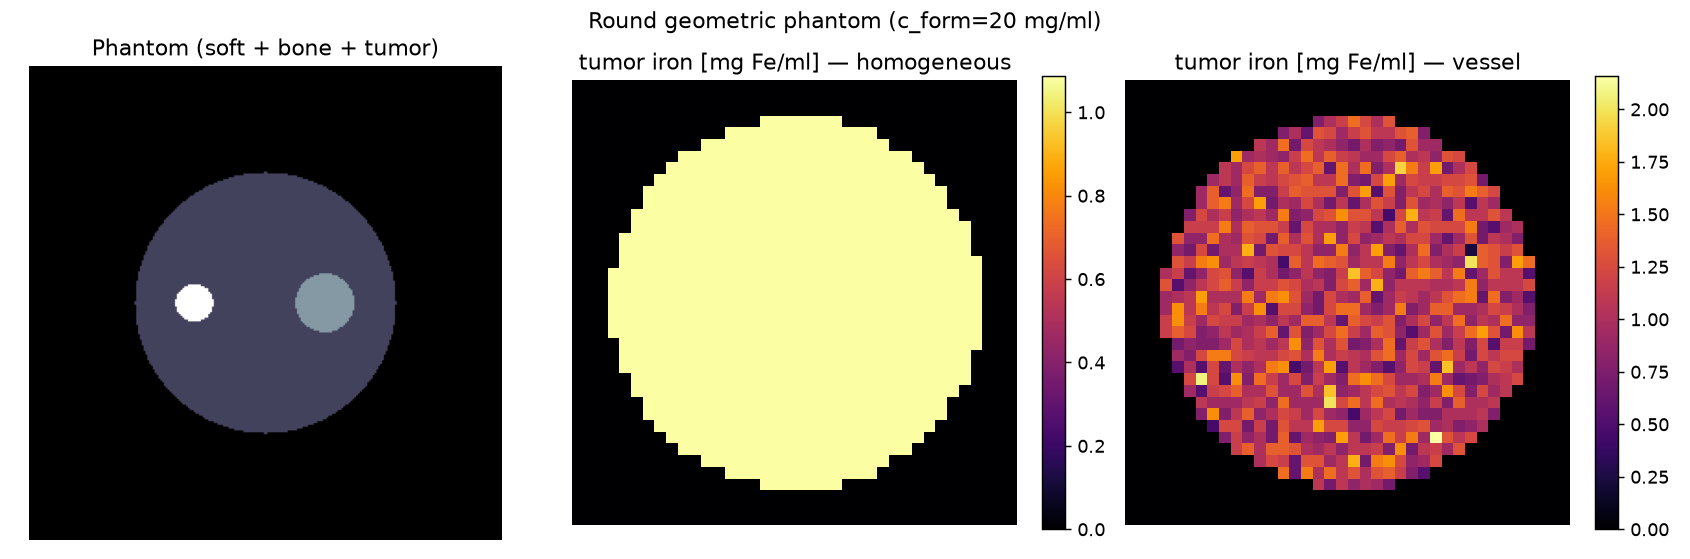
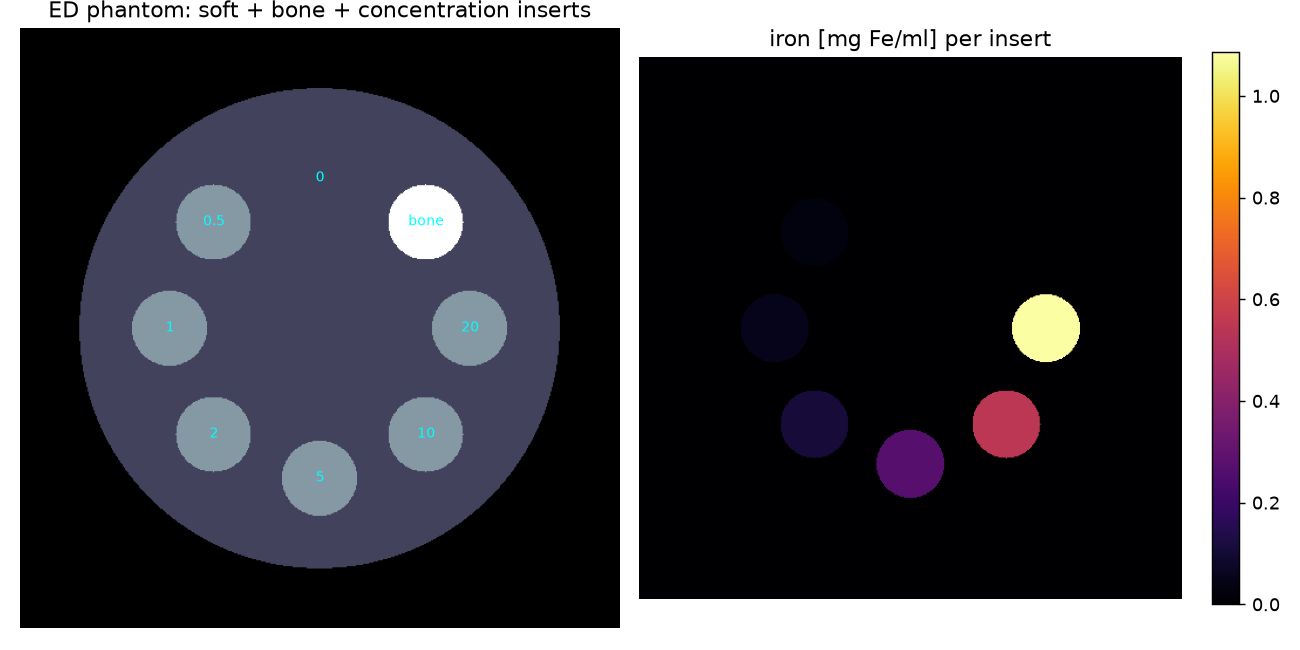
Rebuild phantom as ED-style circular concentration inserts
Per user review: replace the single off-center tumor with a CT-calibration-style
phantom -- soft cylinder with the 7 SPION concentration inserts (0-20) on a ring
at equal radius plus a bone insert, each a 2.5 cm (8 cm^3-equiv) disk. All
concentrations imaged in one scan at equal radius so cupping is common-mode and
inserts are directly comparable. Homogeneous + vessel models per insert.

diff --git a/src/phantom.py b/src/phantom.py
@@ -1,146 +1,127 @@
-"""M2 — round geometric rabbit-scale phantom.
+"""M2 (rev.) — ED-phantom-style module: concentration inserts on a circle.
 
-Analytic geometry (soft-tissue cylinder + cortical-bone rod + iron-loaded tumor
-sphere) plus a voxelizer that returns three component volumes so polychromatic
-projection (M4) can integrate each material's path length independently:
+Like a CT calibration (electron-density) phantom: a soft-tissue cylinder with the
+SPION concentration inserts arranged on a circle at EQUAL radius, plus a
+cortical-bone insert. All concentrations are imaged in one scan and sit at the
+same radial position, so beam-hardening cupping affects them equally and they are
+directly comparable. Each insert is a 2.5 cm disk (~8 cm^3-equivalent tumor).
 
-    mu(E; ray) = L_soft·mu_soft(E) + L_bone·mu_bone(E) + (∫c_Fe dl)·oxide(E)
+Returns 2D component maps (soft fraction, bone fraction, iron mg/ml) for fan-beam
+projection, and the insert table for ROI measurement.
 
-Two tumor distributions (SPEC §5.1/§5.9):
-  * 'homogeneous' — uniform iron through the sphere (Study A).
-  * 'vessel'      — iron confined to 150 µm vessels at 10% volume, mass conserved
-                    -> 10x local conc. Vessels are sub-resolution, so per-voxel
-                    effective conc has mean = c_Fe with binomial partial-volume
-                    variance (structural noise). (Study B)
+Tumor models (per insert):
+  'homogeneous' — uniform iron; 'vessel' — 150 um vessels @10% (mass conserved,
+  10x local conc, sub-resolution -> per-voxel binomial partial-volume variance).
 """
 from __future__ import annotations
-from dataclasses import dataclass
+from dataclasses import dataclass, field
 import numpy as np
 
 import conrad_backend
-from config import PHANTOM, tumor_iron_conc, VESSEL_DIAMETER_UM, VESSEL_VOLUME_FRACTION
+from config import (C_FORM_LEVELS, tumor_iron_conc,
+                    VESSEL_DIAMETER_UM, VESSEL_VOLUME_FRACTION)
 
-_RNG = np.random.default_rng(20260708)   # fixed seed for reproducibility
+_RNG = np.random.default_rng(20260708)
+
+BODY_RADIUS_MM = 80.0        # fits inside the 20 cm FOV
+INSERT_CIRCLE_MM = 50.0      # radius of the ring of inserts
+INSERT_RADIUS_MM = 12.5      # 2.5 cm dia ~ 8 cm^3-equivalent
+BONE_RADIUS_MM = 12.5
 
 
 @dataclass
-class ComponentVolumes:
-    """Per-voxel material composition (all arrays share the same grid)."""
-    soft: np.ndarray      # soft-tissue fraction in [0,1]
-    bone: np.ndarray      # cortical-bone fraction in [0,1]
-    iron_mgml: np.ndarray # iron concentration [mg Fe/ml] (tumor voxels only)
-    voxel_mm: float
-    origin_mm: tuple      # (x0,y0,z0) of voxel-index (0,0,0) center
+class EDPhantom:
+    soft: np.ndarray
+    bone: np.ndarray
+    iron: np.ndarray            # mg Fe/ml per pixel
+    voxel_cm: float
+    inserts: list = field(default_factory=list)   # dicts: name, center_mm, radius_mm, c_form, c_fe
 
 
-def _grid(dim, voxel_mm):
-    nx, ny, nz = dim
-    # centered coordinates [mm]
-    x = (np.arange(nx) - (nx - 1) / 2.0) * voxel_mm
-    y = (np.arange(ny) - (ny - 1) / 2.0) * voxel_mm
-    z = (np.arange(nz) - (nz - 1) / 2.0) * voxel_mm
-    return np.meshgrid(x, y, z, indexing="ij")
+def _disk(X, Y, cx, cy, r):
+    return (X - cx) ** 2 + (Y - cy) ** 2 <= r ** 2
 
 
-def build_components(c_form: float, model: str = "homogeneous",
-                     dim=(256, 256, 192), voxel_mm: float = 0.78) -> ComponentVolumes:
-    """Voxelize the phantom for one formulation concentration and tumor model."""
-    X, Y, Z = _grid(dim, voxel_mm)
-    ph = PHANTOM
+def build_ed_phantom(model="homogeneous", N=512, fov_mm=200.0) -> EDPhantom:
+    voxel_mm = fov_mm / N
+    ax = (np.arange(N) - (N - 1) / 2.0) * voxel_mm
+    X, Y = np.meshgrid(ax, ax, indexing="ij")   # X=axis0(rows), Y=axis1(cols)
 
-    # body cylinder (axis along z)
-    body_r = ph.body_diameter_mm / 2.0
-    in_body = (X**2 + Y**2 <= body_r**2) & (np.abs(Z) <= ph.body_height_mm / 2.0)
+    soft = _disk(X, Y, 0, 0, BODY_RADIUS_MM).astype(np.float32)
+    bone = np.zeros((N, N), np.float32)
+    iron = np.zeros((N, N), np.float32)
 
-    # cortical-bone rod (cylinder along z)
-    bx, by, _ = ph.bone_center_mm
-    in_bone = in_body & ((X - bx)**2 + (Y - by)**2 <= ph.bone_radius_mm**2)
+    inserts = []
+    n_conc = len(C_FORM_LEVELS)
+    n_slots = n_conc + 1                       # + bone
+    for k, c_form in enumerate(C_FORM_LEVELS):
+        theta = 2 * np.pi * k / n_slots + np.pi / 2   # start at top
+        cx = INSERT_CIRCLE_MM * np.cos(theta)
+        cy = INSERT_CIRCLE_MM * np.sin(theta)
+        mask = _disk(X, Y, cx, cy, INSERT_RADIUS_MM)
+        c_fe = tumor_iron_conc(c_form)
+        _fill_iron(iron, mask, c_fe, model, voxel_mm)
+        inserts.append(dict(name=f"c{c_form:g}", center_mm=(float(cx), float(cy)),
+                            radius_mm=INSERT_RADIUS_MM, c_form=float(c_form), c_fe=float(c_fe)))
 
-    # tumor sphere
-    tx, ty, tz = ph.tumor_center_mm
-    tr = ph.tumor_radius_mm
-    in_tumor = (X - tx)**2 + (Y - ty)**2 + (Z - tz)**2 <= tr**2
+    # bone insert in the last slot
+    theta = 2 * np.pi * n_conc / n_slots + np.pi / 2
+    bx, by = INSERT_CIRCLE_MM * np.cos(theta), INSERT_CIRCLE_MM * np.sin(theta)
+    bmask = _disk(X, Y, bx, by, BONE_RADIUS_MM)
+    bone[bmask] = 1.0
+    soft[bmask] = 0.0
+    inserts.append(dict(name="bone", center_mm=(float(bx), float(by)),
+                        radius_mm=BONE_RADIUS_MM, c_form=None, c_fe=0.0))
 
-    soft = np.where(in_body & ~in_bone, 1.0, 0.0).astype(np.float32)
-    bone = np.where(in_bone, 1.0, 0.0).astype(np.float32)
-
-    c_fe = tumor_iron_conc(c_form)   # mean tumor iron [mg Fe/ml]
-    iron = np.zeros(dim, dtype=np.float32)
-    if c_fe > 0:
-        if model == "homogeneous":
-            iron[in_tumor] = c_fe
-        elif model == "vessel":
-            # per-voxel effective conc: 10% vessels at 10x conc, mass conserved.
-            # sub-voxels per CT voxel ~ (voxel / vessel)^3, capped for stability.
-            vessel_mm = VESSEL_DIAMETER_UM / 1000.0
-            m = max(1, int(round((voxel_mm / vessel_mm) ** 3)))
-            m = min(m, 4000)
-            n_tumor = int(in_tumor.sum())
-            vessel_frac = _RNG.binomial(m, VESSEL_VOLUME_FRACTION, size=n_tumor) / m
-            local = vessel_frac * (c_fe / VESSEL_VOLUME_FRACTION)   # 10x conc where vessels
-            iron[in_tumor] = local.astype(np.float32)
-        else:
-            raise ValueError(f"unknown tumor model {model!r}")
-
-    origin = (-(dim[0] - 1) / 2.0 * voxel_mm,
-              -(dim[1] - 1) / 2.0 * voxel_mm,
-              -(dim[2] - 1) / 2.0 * voxel_mm)
-    return ComponentVolumes(soft, bone, iron, voxel_mm, origin)
+    return EDPhantom(soft, bone, iron, voxel_mm / 10.0, inserts)
 
 
-def summary_stats(cv: ComponentVolumes) -> dict:
-    tumor = cv.iron_mgml[cv.iron_mgml > 0]
-    return dict(
-        soft_voxels=int(cv.soft.sum()),
-        bone_voxels=int(cv.bone.sum()),
-        tumor_voxels=int((cv.iron_mgml > 0).sum()),
-        iron_mean=float(cv.iron_mgml[cv.iron_mgml >= 0].mean()) if cv.iron_mgml.size else 0.0,
-        tumor_iron_mean=float(tumor.mean()) if tumor.size else 0.0,
-        tumor_iron_std=float(tumor.std()) if tumor.size else 0.0,
-        tumor_iron_max=float(tumor.max()) if tumor.size else 0.0,
-    )
+def _fill_iron(iron, mask, c_fe, model, voxel_mm):
+    if c_fe <= 0:
+        return
+    if model == "homogeneous":
+        iron[mask] = c_fe
+    elif model == "vessel":
+        vessel_mm = VESSEL_DIAMETER_UM / 1000.0
+        m = int(np.clip(round((voxel_mm / vessel_mm) ** 3), 1, 4000))
+        nvox = int(mask.sum())
+        frac = _RNG.binomial(m, VESSEL_VOLUME_FRACTION, size=nvox) / m
+        iron[mask] = (frac * (c_fe / VESSEL_VOLUME_FRACTION)).astype(np.float32)
+    else:
+        raise ValueError(f"unknown tumor model {model!r}")
 
 
-def visualize(outdir: str = None, c_form: float = 20.0):
-    """Render axial slices for homogeneous vs vessel tumor -> dashboard figures."""
-    import os
-    import matplotlib
+def visualize(outdir=None):
+    import os, matplotlib
     matplotlib.use("Agg")
     import matplotlib.pyplot as plt
     if outdir is None:
         outdir = str(conrad_backend.REPO_ROOT / "results" / "phantom")
     os.makedirs(outdir, exist_ok=True)
-
-    dim = (256, 256, 64)
-    fig, axes = plt.subplots(1, 3, figsize=(13, 4.3))
-    cv = build_components(c_form, "homogeneous", dim=dim)
-    kz = dim[2] // 2
-
-    # composite material map: soft=0.3, bone=1.0, tumor outlined by iron>0
-    comp = cv.soft[:, :, kz] * 0.3 + cv.bone[:, :, kz] * 1.0
-    comp[cv.iron_mgml[:, :, kz] > 0] = 0.6
-    axes[0].imshow(comp.T, cmap="bone", origin="lower")
-    axes[0].set_title("Phantom (soft + bone + tumor)"); axes[0].axis("off")
-
-    # tumor iron map: homogeneous vs vessel (zoom on tumor)
-    tx = int(round(PHANTOM.tumor_center_mm[0] / cv.voxel_mm + (dim[0] - 1) / 2))
-    ty = int(round(PHANTOM.tumor_center_mm[1] / cv.voxel_mm + (dim[1] - 1) / 2))
-    r = int(round(PHANTOM.tumor_radius_mm / cv.voxel_mm)) + 3
-    for ax, model in zip(axes[1:], ["homogeneous", "vessel"]):
-        cvi = build_components(c_form, model, dim=dim)
-        sl = cvi.iron_mgml[tx - r:tx + r, ty - r:ty + r, kz]
-        im = ax.imshow(sl.T, cmap="inferno", origin="lower", vmin=0)
-        ax.set_title(f"tumor iron [mg Fe/ml] — {model}"); ax.axis("off")
-        plt.colorbar(im, ax=ax, fraction=0.046)
-    fig.suptitle(f"Round geometric phantom (c_form={c_form:g} mg/ml)")
+    ph = build_ed_phantom("homogeneous", N=512)
+    comp = ph.soft * 0.3 + ph.bone * 1.0
+    comp[ph.iron > 0] = 0.6
+    fig, ax = plt.subplots(1, 2, figsize=(10, 5))
+    ax[0].imshow(comp.T, cmap="bone", origin="lower")
+    ax[0].set_title("ED phantom: soft + bone + concentration inserts")
+    im = ax[1].imshow(ph.iron.T, cmap="inferno", origin="lower")
+    ax[1].set_title("iron [mg Fe/ml] per insert")
+    plt.colorbar(im, ax=ax[1], fraction=0.046)
+    for a in ax:
+        a.axis("off")
+    # annotate concentrations
+    for ins in ph.inserts:
+        cx, cy = ins["center_mm"]
+        px = cx / (ph.voxel_cm * 10) + 256
+        py = cy / (ph.voxel_cm * 10) + 256
+        lbl = "bone" if ins["name"] == "bone" else f"{ins['c_form']:g}"
+        ax[0].text(px, py, lbl, color="cyan", ha="center", va="center", fontsize=8)
     fig.tight_layout()
     fig.savefig(f"{outdir}/phantom_axial.png", dpi=130)
     plt.close(fig)
-    print("[ok] wrote", outdir, "-> phantom_axial.png")
+    print("[ok] wrote", outdir, "-> phantom_axial.png; inserts:",
+          [(i["name"], round(i["c_fe"], 3)) for i in ph.inserts])
 
 
 if __name__ == "__main__":
-    for model in ["homogeneous", "vessel"]:
-        cv = build_components(20.0, model, dim=(256, 256, 96))
-        print(f"[{model}]", summary_stats(cv))
     visualize()